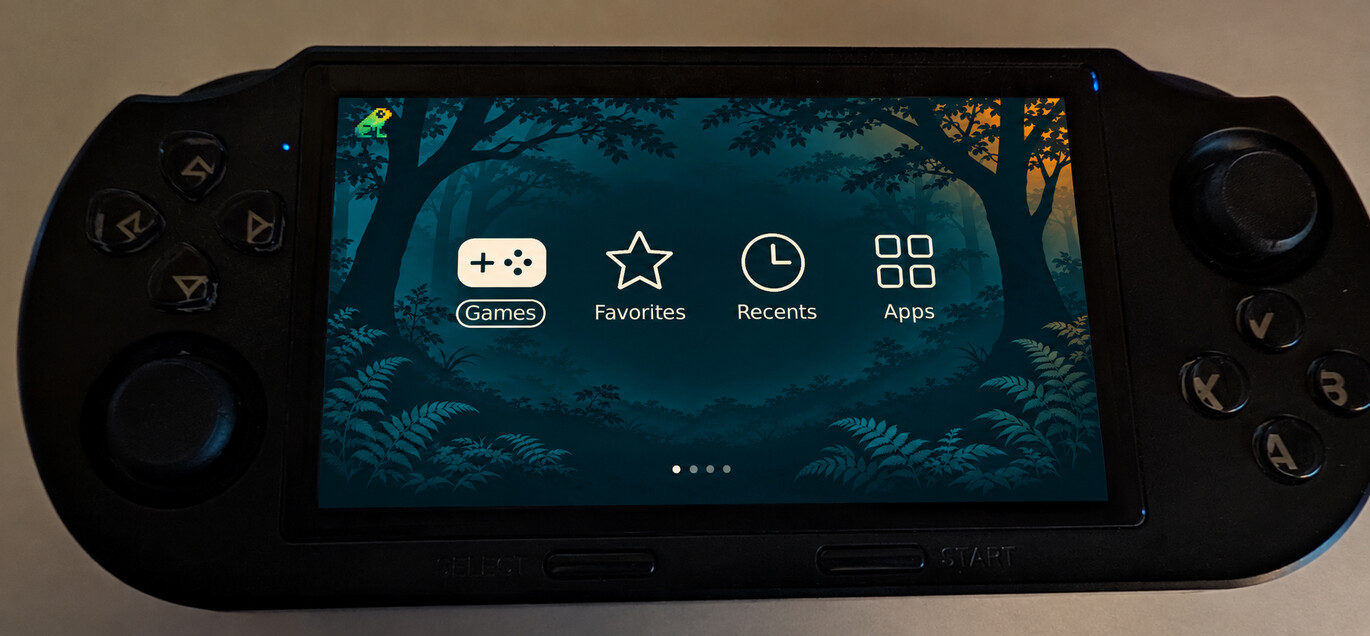
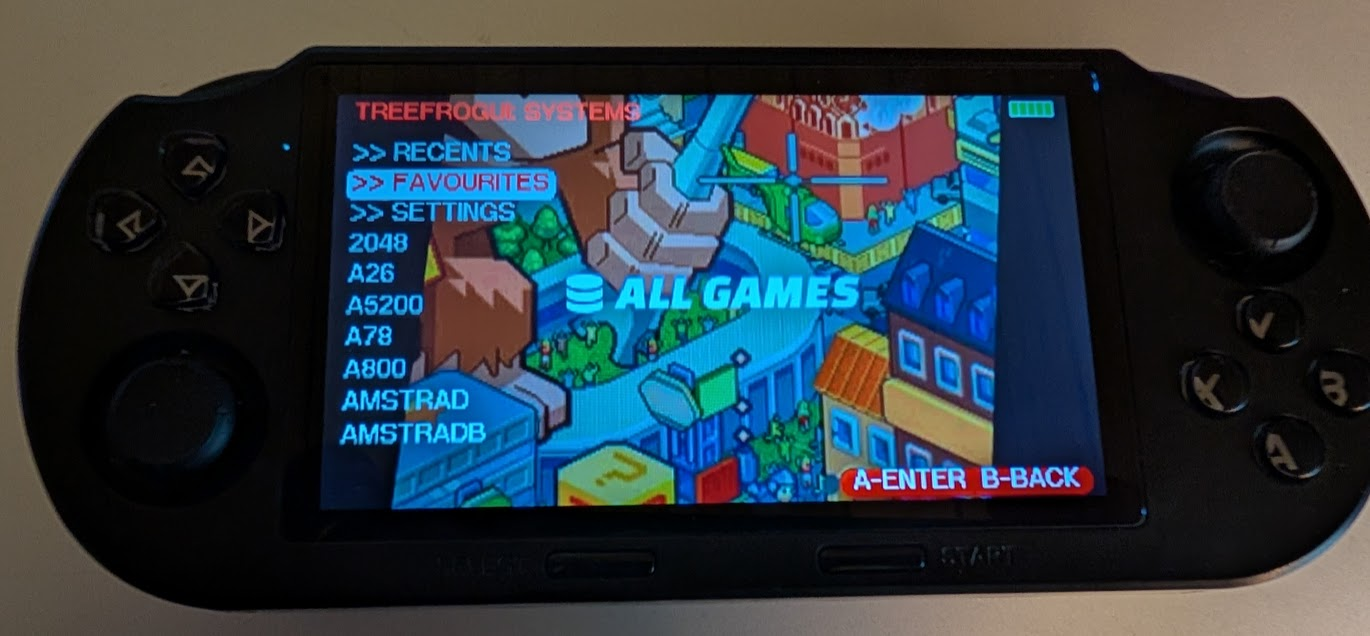
Show the Horizontal launcher screenshot directly

diff --git a/README.md b/README.md
@@ -8,7 +8,7 @@ A free, custom game-menu (frontend) for a range of MIPS-based Hichip handhelds -
 
 **Supported devices:** R36SX (v2.6 & v2.7; v3.0 using the v2.7 setup per user reports), **R36 HD** (and R36SX clones - see [install guide](install.md#r36sx-clones-r36hd-etc)), SF3000, SF3000 HD, SF3000HD without HDMI, SF3100, SF3500, and GB350.
 
-![TreeFrogUI-Horizontal in Midnight Cyan on an SF3000](console.jpg)
+![TreeFrogUI-Horizontal launcher in Midnight Cyan](site/assets/images/treefrogui-horizontal.png)
 
 > # ☕ Consider donating to extend device support: [ko-fi.com/proszty](https://ko-fi.com/proszty)
 > 💬 Join the [TreeFrogUI community server](https://discord.gg/JYFsmBYFBd) on Discord.

diff --git a/site/index.md b/site/index.md
@@ -13,7 +13,7 @@ title: Minimalistic emulation frontend for SF3000-like handhelds
       <a class="text-link" href="{{ '/scraper/' | relative_url }}">Easy boxart &amp; artwork →</a>
     </div>
   </div>
-  <img class="hero-image" src="{{ '/assets/images/console.jpg' | relative_url }}" alt="TreeFrogUI-Horizontal in Midnight Cyan on an SF3000">
+  <img class="hero-image" src="{{ '/assets/images/treefrogui-horizontal.png' | relative_url }}" alt="TreeFrogUI-Horizontal launcher in Midnight Cyan">
 </section>
 
 <section class="tool-shelf" aria-label="TreeFrogUI tools">
